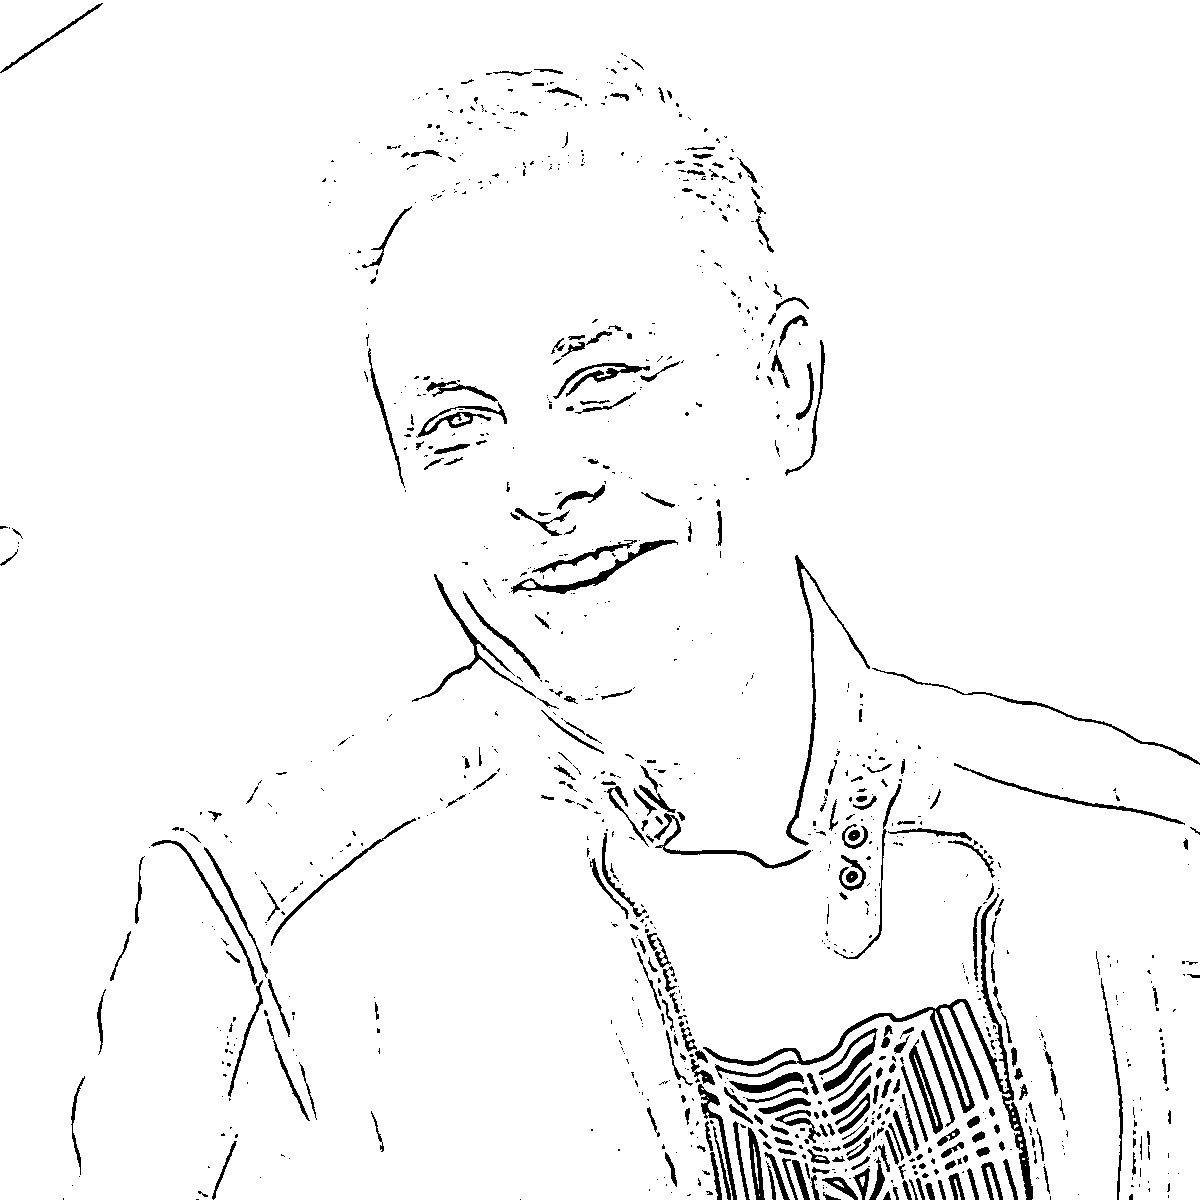
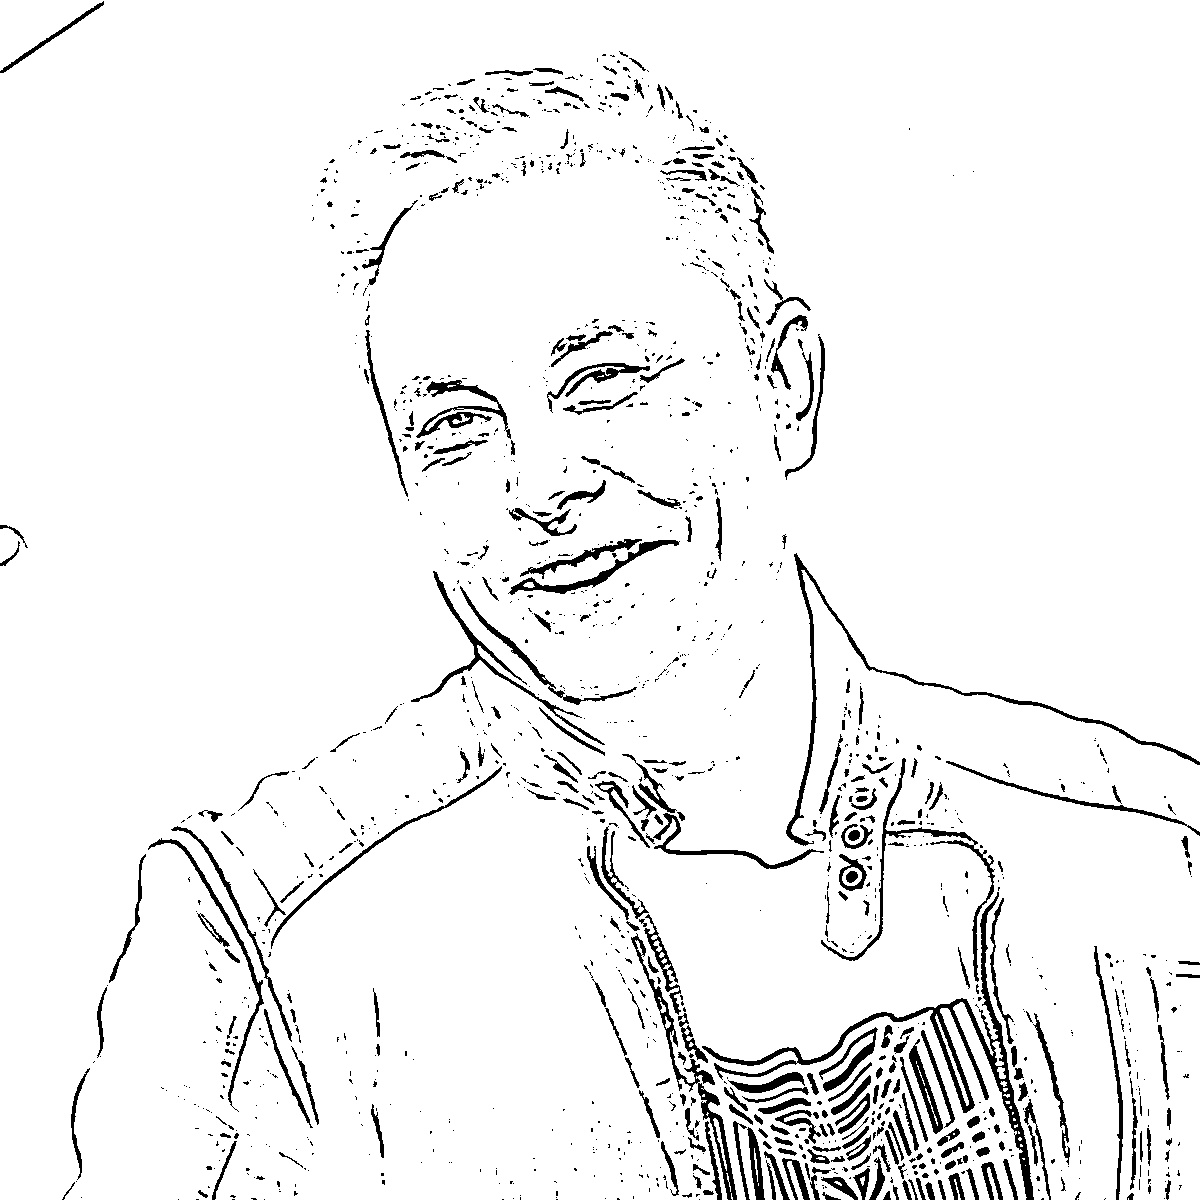
Final Cartoon

diff --git a/main.py b/main.py
@@ -8,10 +8,11 @@ cv2.imwrite('canny.jpg', edges)
 
 gray = cv2.cvtColor(img, cv2.COLOR_BGR2GRAY)
 gray_1 = cv2.medianBlur(gray, 5)
-edges = cv2.adaptiveThreshold(gray_1, 255, cv2.ADAPTIVE_THRESH_MEAN_C, cv2.THRESH_BINARY, 9, 10)
+edges = cv2.adaptiveThreshold(gray_1, 255, cv2.ADAPTIVE_THRESH_MEAN_C, cv2.THRESH_BINARY, 9, 7)
 cv2.imwrite('medianblur.jpg', edges)
 
 color = cv2.bilateralFilter(img, d=19, sigmaColor=200,sigmaSpace=200)
 cv2.imwrite('bilateral.jpg', color)
 
-
+cartoon = cv2.bitwise_and(color, color, mask=edges)
+cv2.imwrite('output.jpg', cartoon)
